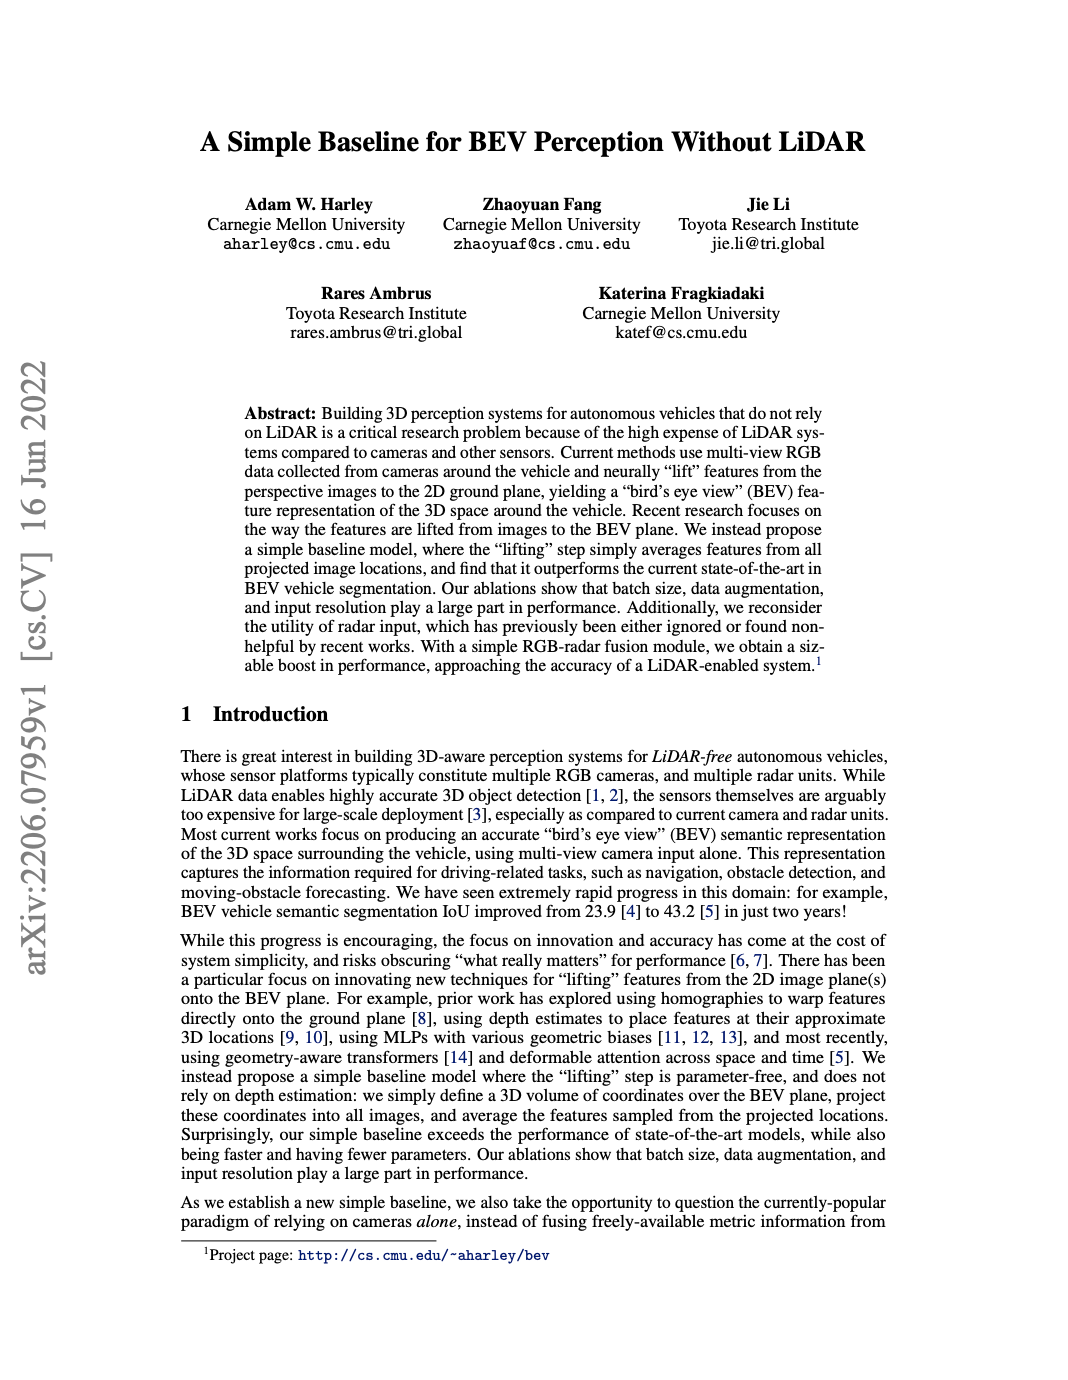
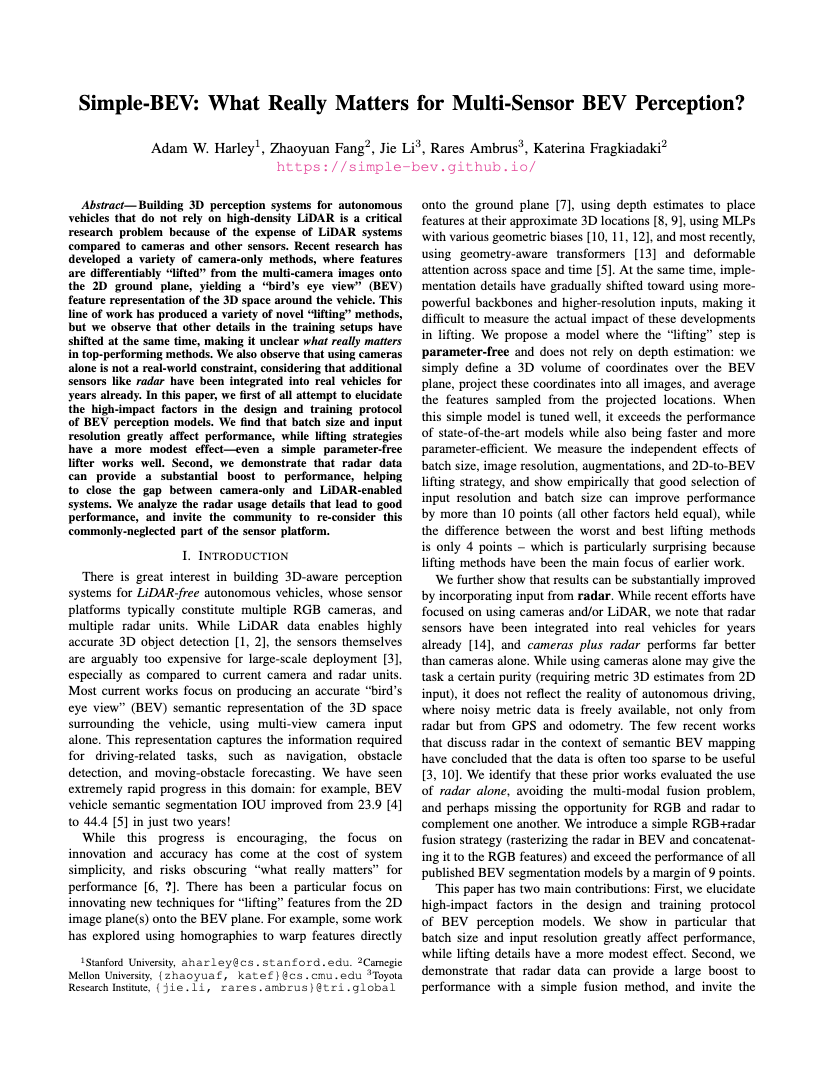
updated bottom of page

Changed region(s): [[0.0, 0.0929, 0.9146, 0.9287]]

diff --git a/index.html b/index.html
@@ -208,40 +208,40 @@
 	  
 	  <hr>
 
-	  <!-- <div class="w3-row w3-margin" style="padding-bottom:2em"> -->
-	  <!--   <div class="w3-center"><h2>Paper</h2></div> -->
-	  <!--   <div class="w3-col s0 m1 l2" style="height:10px"></div> -->
-	  <!--   <div class="w3-col s6 m3 l2"> -->
-	  <!--     <a href="https://arxiv.org/pdf/2206.07959.pdf"><img class="layered-paper-big" src="images/page1.png" style="width:100%;min-height:200px; margin-right:3em"></a> -->
-	  <!--   </div> -->
-	  <!--   <div class="w3-col s6 m7 l6" style="padding-left:5em"> -->
-	  <!--     <div class="cite"> -->
-	  <!-- 	Adam W. Harley, Zhaoyuan Fang, Jie Li, Rares Ambrus, Katerina Fragkiadaki. -->
-	  <!-- 	<i>A Simple Baseline for BEV Perception Without LiDAR.</i>  -->
-	  <!-- 	arXiv:2206.07959 2022. -->
-	  <!--     </div> -->
-	  <!--     <\!-- <h3><a href="https://arxiv.org/pdf/2206.07959.pdf">[pdf]</a>&emsp;<a href="bib.txt">[bibtex]</a></h3> -\-> -->
-	  <!--     <h3><a href="https://arxiv.org/abs/2206.07959">[abs]</a>&emsp;<a href="https://arxiv.org/pdf/2206.07959.pdf">[pdf]</a></h3> -->
-	  <!--   </div> -->
-	  <!--   <div class="w3-col s0 m1 l2" style="height:10px"></div> -->
+	  <div class="w3-row w3-margin" style="padding-bottom:2em">
+	    <div class="w3-center"><h2>Paper</h2></div>
+	    <div class="w3-col s0 m1 l2" style="height:10px"></div>
+	    <div class="w3-col s6 m3 l2">
+	      <a href="https://arxiv.org/pdf/2206.07959.pdf"><img class="layered-paper-big" src="images/page1.png" style="width:100%;min-height:200px; margin-right:3em"></a>
+	    </div>
+	    <div class="w3-col s6 m7 l6" style="padding-left:5em">
+	      <div class="cite">
+	  	Adam W. Harley, Zhaoyuan Fang, Jie Li, Rares Ambrus, Katerina Fragkiadaki.
+	  	<i>Simple-BEV: What Really Matters for Multi-Sensor BEV Perception?</i>
+	  	arXiv:2206.07959 2022.
+	      </div>
+	      <!-- <h3><a href="https://arxiv.org/pdf/2206.07959.pdf">[pdf]</a>&emsp;<a href="bib.txt">[bibtex]</a></h3> -->
+	      <h3><a href="https://arxiv.org/abs/2206.07959">[abs]</a>&emsp;<a href="https://arxiv.org/pdf/2206.07959.pdf">[pdf]</a></h3>
+	    </div>
+	    <div class="w3-col s0 m1 l2" style="height:10px"></div>
 
-	  <!-- </div> -->
+	  </div>
 
-	  <!-- <hr> -->
+	  <hr>
 	  
-	  <!-- <div class="w3-row w3-margin" style="padding-bottom:2em"> -->
-	  <!--   <\!-- <h2><a href="bib.txt">[bibtex]</a></h3> -\-> -->
-	  <!--   <div class="w3-center"><h2>Bibtex</h2></div> -->
-	  <!--     <div class="w3-code notranslate"> -->
-	  <!-- 	@inproceedings{harley2022simple,<br> -->
-	  <!-- 	&emsp;author    = {Adam W. Harley and Zhaoyuan Fang and Jie Li and Rares Ambrus and Katerina Fragkiadaki}, <br> -->
-	  <!-- 	&emsp;title     = {A Simple Baseline for BEV Perception Without LiDAR},<br> -->
-	  <!-- 	&emsp;booktitle = {arXiv:2206.07959},<br> -->
-	  <!-- 	&emsp;year      = {2022}<br> -->
-	  <!-- 	} -->
-	  <!--     </div> -->
+	  <div class="w3-row w3-margin" style="padding-bottom:2em">
+	    <!-- <h2><a href="bib.txt">[bibtex]</a></h3> -->
+	    <div class="w3-center"><h2>Bibtex</h2></div>
+	      <div class="w3-code notranslate">
+	  	@inproceedings{harley2022simple,<br>
+	  	&emsp;author    = {Adam W. Harley and Zhaoyuan Fang and Jie Li and Rares Ambrus and Katerina Fragkiadaki}, <br>
+	  	&emsp;title     = {Simple-{BEV}: What Really Matters for Multi-Sensor BEV Perception?},<br>
+	  	&emsp;booktitle = {arXiv:2206.07959},<br>
+	  	&emsp;year      = {2022}<br>
+	  	}
+	      </div>
 	    
-	  <!-- </div> -->
+	  </div>
 
 	  
 	  <!-- <hr> -->
